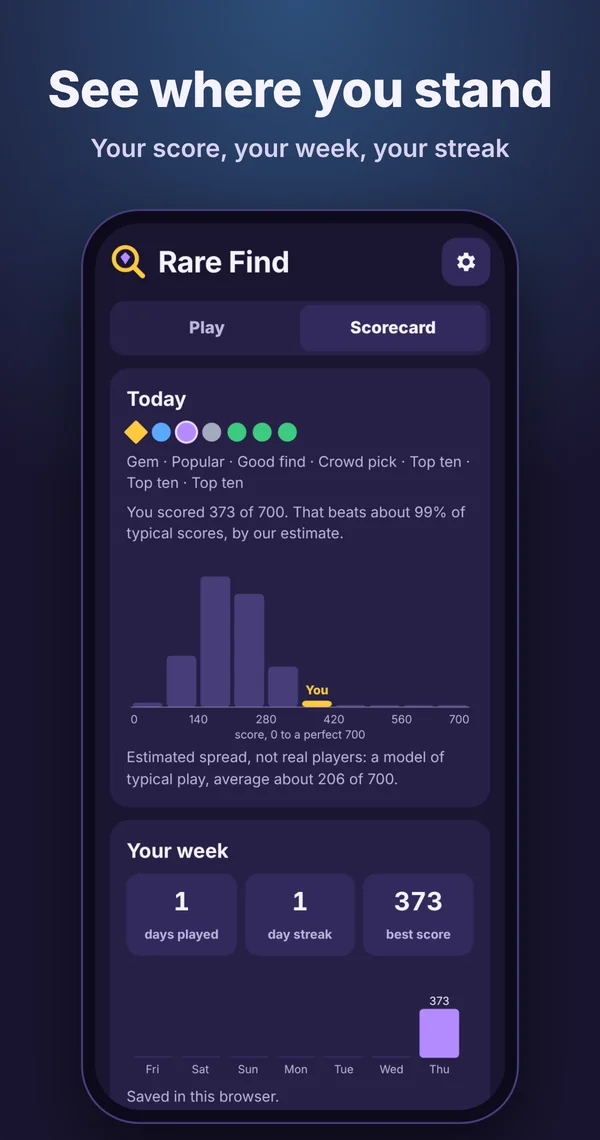
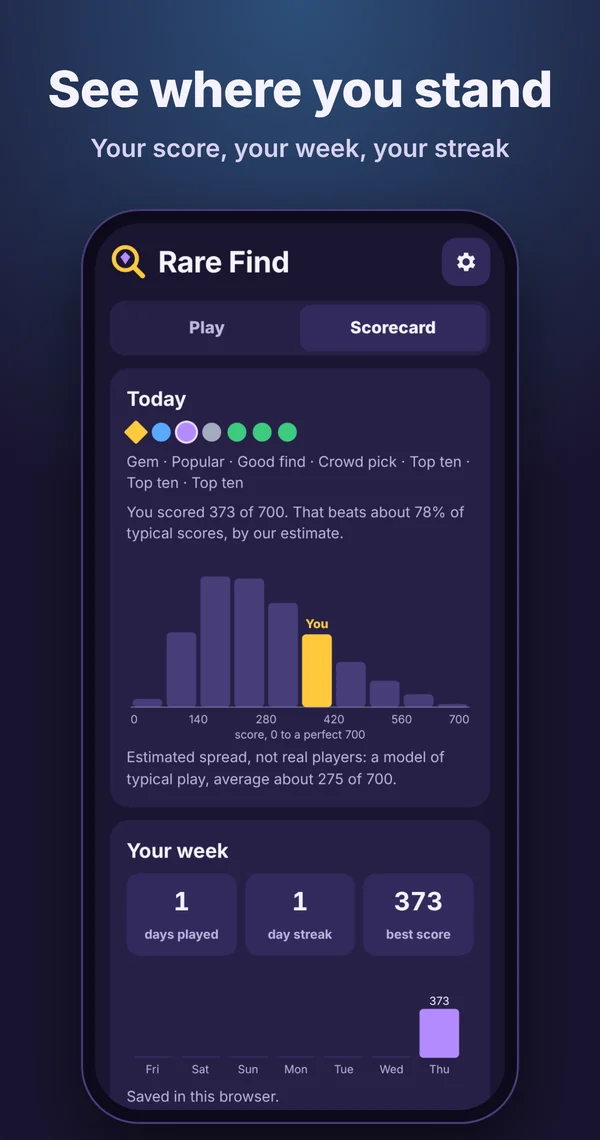
Rare Find: estimated score spread fitted to 275 average, 1% at 600+
The estimated chart mixed one kind of player, averaging about 206 of 700. It
now mixes four (casual, typical, strong, expert), fitted to the owner's
estimate: a 7-prompt game averages 275 of 700 and about 1 game in 100 reaches
600. One kind of player alone cannot give both: the spread is too narrow.
Docs, SKILL.md, store images and a new playtest check updated. Playtest 123/123.

Claude-Session: https://claude.ai/code/session_01XfFFBCbi7PWwpre9jxYUHh

diff --git a/projects/rare-find/_build/game.src.html b/projects/rare-find/_build/game.src.html
@@ -645,10 +645,18 @@ function dealt(k){
 }
 
 /* ---------- the estimated spread of scores ---------- */
-// A model of a typical player, not real data: per prompt, how often they land each result.
-const MODEL=[[25,.18],[rankPts(2),.08],[rankPts(3),.07],...[4,5,6,7,8,9,10].map(r=>[rankPts(r),.03]),[70,.14],[100,.02],[0,.30]];
+// A model of typical play, not real data. Players differ, so it mixes four kinds of player, each with
+// how often they land each result per prompt: miss, crowd pick, popular (2nd or 3rd), the rest of the
+// top ten, a Good find (60 to 90) and a Gem. Fitted (owner's estimate, 18 November 2026) so a 7-prompt
+// game averages about 275 of 700 and about 1 game in 100 reaches 600.
+const PLAYERS=[[.37,[.35,.30,.12,.13,.08,.02]],[.40,[.19,.22,.10,.20,.23,.06]],[.17,[.07,.12,.08,.20,.38,.15]],[.06,[.02,.03,.04,.11,.42,.38]]];
+function perPrompt([miss,crowd,pop,solid,good,gem]){ return [[0,miss],[25,crowd],[rankPts(2),pop/2],[rankPts(3),pop/2],...[4,5,6,7,8,9,10].map(r=>[rankPts(r),solid/7]),...[60,70,80,90].map(v=>[v,good/4]),[100,gem]]; }
 const DISTS={};
-function dist(n=ROUNDS){ if(DISTS[n]) return DISTS[n]; let d=new Map([[0,1]]); for(let r=0;r<n;r++){ const x=new Map(); d.forEach((p,s)=>MODEL.forEach(([v,q])=>x.set(s+v,(x.get(s+v)||0)+p*q))); d=x; } return DISTS[n]=d; }
+function dist(n=ROUNDS){ if(DISTS[n]) return DISTS[n]; const all=new Map();
+  PLAYERS.forEach(([w,ps])=>{ const M=perPrompt(ps); let d=new Map([[0,1]]);
+    for(let r=0;r<n;r++){ const x=new Map(); d.forEach((p,s)=>M.forEach(([v,q])=>x.set(s+v,(x.get(s+v)||0)+p*q))); d=x; }
+    d.forEach((p,s)=>all.set(s,(all.get(s)||0)+w*p)); });
+  return DISTS[n]=all; }
 function meanOf(n=ROUNDS){ return Math.round([...dist(n)].reduce((a,[s,p])=>a+s*p,0)); }
 const DIST=dist(ROUNDS), MEAN=meanOf(ROUNDS);
 function beatPct(score,n=ROUNDS){ let below=0,eq=0; dist(n).forEach((p,s)=>{ if(s<score) below+=p; else if(s===score) eq+=p; }); return Math.max(1,Math.min(99,Math.round(100*(below+eq/2)))); } // an estimate never claims 0% or 100%

diff --git a/projects/rare-find/base/game.html b/projects/rare-find/base/game.html
@@ -645,10 +645,18 @@ function dealt(k){
 }
 
 /* ---------- the estimated spread of scores ---------- */
-// A model of a typical player, not real data: per prompt, how often they land each result.
-const MODEL=[[25,.18],[rankPts(2),.08],[rankPts(3),.07],...[4,5,6,7,8,9,10].map(r=>[rankPts(r),.03]),[70,.14],[100,.02],[0,.30]];
+// A model of typical play, not real data. Players differ, so it mixes four kinds of player, each with
+// how often they land each result per prompt: miss, crowd pick, popular (2nd or 3rd), the rest of the
+// top ten, a Good find (60 to 90) and a Gem. Fitted (owner's estimate, 18 November 2026) so a 7-prompt
+// game averages about 275 of 700 and about 1 game in 100 reaches 600.
+const PLAYERS=[[.37,[.35,.30,.12,.13,.08,.02]],[.40,[.19,.22,.10,.20,.23,.06]],[.17,[.07,.12,.08,.20,.38,.15]],[.06,[.02,.03,.04,.11,.42,.38]]];
+function perPrompt([miss,crowd,pop,solid,good,gem]){ return [[0,miss],[25,crowd],[rankPts(2),pop/2],[rankPts(3),pop/2],...[4,5,6,7,8,9,10].map(r=>[rankPts(r),solid/7]),...[60,70,80,90].map(v=>[v,good/4]),[100,gem]]; }
 const DISTS={};
-function dist(n=ROUNDS){ if(DISTS[n]) return DISTS[n]; let d=new Map([[0,1]]); for(let r=0;r<n;r++){ const x=new Map(); d.forEach((p,s)=>MODEL.forEach(([v,q])=>x.set(s+v,(x.get(s+v)||0)+p*q))); d=x; } return DISTS[n]=d; }
+function dist(n=ROUNDS){ if(DISTS[n]) return DISTS[n]; const all=new Map();
+  PLAYERS.forEach(([w,ps])=>{ const M=perPrompt(ps); let d=new Map([[0,1]]);
+    for(let r=0;r<n;r++){ const x=new Map(); d.forEach((p,s)=>M.forEach(([v,q])=>x.set(s+v,(x.get(s+v)||0)+p*q))); d=x; }
+    d.forEach((p,s)=>all.set(s,(all.get(s)||0)+w*p)); });
+  return DISTS[n]=all; }
 function meanOf(n=ROUNDS){ return Math.round([...dist(n)].reduce((a,[s,p])=>a+s*p,0)); }
 const DIST=dist(ROUNDS), MEAN=meanOf(ROUNDS);
 function beatPct(score,n=ROUNDS){ let below=0,eq=0; dist(n).forEach((p,s)=>{ if(s<score) below+=p; else if(s===score) eq+=p; }); return Math.max(1,Math.min(99,Math.round(100*(below+eq/2)))); } // an estimate never claims 0% or 100%

diff --git a/projects/rare-find/_build/playtest.py b/projects/rare-find/_build/playtest.py
@@ -214,6 +214,8 @@ with sync_playwright() as pw:
     pg.wait_for_timeout(800)
     st = pg.evaluate("window.__rf.state()")
     check("end: the total matches every answer's points", st["screen"] == "end" and pg.inner_text("#final").strip() == str(total), (pg.inner_text("#final"), total))
+    model = pg.evaluate("[window.__rf.meanOf(7), 100-window.__rf.beatPct(600,7)]")
+    check("the estimated spread: a 7-prompt game averages about 275 of 700, and about 1 in 100 reach 600", 270 <= model[0] <= 280 and model[1] == 1, model)
     check("end: a chart of the estimated spread, with your place", pg.evaluate("!!document.querySelector('#end-chart svg')") and "beat about" in pg.inner_text("#end-chart") and "You" in pg.inner_text("#end-chart"), pg.inner_text("#end-chart"))
     check("end: today's score is saved", st["days"].get("2026-11-17", {}).get("score") == total, st["days"])
     check("'Back to start' shows on the end screen", pg.is_visible("#b-end-back"))

diff --git a/projects/rare-find/_build/NORTH-STAR.md b/projects/rare-find/_build/NORTH-STAR.md
@@ -24,7 +24,7 @@ Then a comment from an AI host with a sense of humour, the top ten, and your pla
 | Gems shown on the reveal | Gems hidden; only their count shows | "Remove the rare finds from the list, in case people want to play again" |
 | New category, fresh last prompt | Removed | "I do not understand the last round or topic section" |
 | Settings card on home | A gear icon with an accordion, closed | "Move settings as an icon with accordion, default closed" |
-| A final score | A Scorecard tab and a chart of your place, 0 to 500 | "An end of day score that compares to others ... a bar chart with an estimated distribution" |
+| A final score | A Scorecard tab and a chart of your place, 0 to 700 | "An end of day score that compares to others ... a bar chart with an estimated distribution" |
 | Co-workers' trash talk | Four AI commentator personas | "Unique personas and some humour in the comments" |
 | Claude judges unlisted answers on its own | "Check with Claude", then "Check again" | "Have 'We allow it' be the LLM check ... allow a check again" |
 
@@ -63,9 +63,13 @@ Nothing is ever approved without the AI's yes; "We allow it" was removed on 18 N
 owner's request. The game never waits for the AI; a late verdict still counts. While it checks, the
 other hosts fill the wait with a line each.
 
-**The estimated chart.** Until 5 real players have scores for the day, the chart shows a model of
-typical play (per prompt: about 30% miss, 33% top three, 21% ranks 4 to 10, 14% beyond the top ten,
-2% Gems). That gives an average of about 154. It is labelled as an estimate everywhere.
+**The estimated chart.** The chart shows a model of typical play, labelled as an estimate
+everywhere. Players differ, so it mixes four kinds of player (casual 37%, typical 40%, strong 17%,
+expert 6%), each with its own chance per prompt of a miss, the crowd pick, a popular answer, the rest
+of the top ten, a Good find and a Gem. It was fitted to the owner's estimate (18 November 2026): a
+7-prompt game averages about 275 of 700, and about 1 game in 100 reaches 600. The middle game is
+about 257; one in ten scores 456 or more. With one kind of player only, no setting gives both
+numbers: the spread comes out too narrow.
 
 ## Challenge codes: the simple way to join
 
@@ -87,7 +91,7 @@ friend has not played yet, it counts as their daily game.
 ## Prompts per game
 
 7 (default), 10, or party mode: all 25 prompts, grouped by topic, with "Topic 2 of 8" on each
-prompt. Today's game is always 5, so daily scores compare. The chart and the perfect score scale with
+prompt. Today's game is always 7, so daily scores compare. The chart and the perfect score scale with
 the count (100 per prompt).
 
 ## The commentators

diff --git a/projects/rare-find/quality-results/README.md b/projects/rare-find/quality-results/README.md
@@ -6,7 +6,7 @@
 
 - **The automated playtest**, [`../_build/playtest.py`](../_build/playtest.py). It plays the built
   page in Chromium at 390 px (phone) and 1280 px, keyboard only, with reduced motion, with no Claude,
-  and with a mock of Claude's answer check (`sample`). Last run, 18 November 2026, version 4.4: **122 of 122 checks
+  and with a mock of Claude's answer check (`sample`). Last run, 18 November 2026, version 4.4: **123 of 123 checks
   passed**. They cover how an answer lands (on screen within 100 ms, ordinary effects 150 to 250
   ms, the Gem reveal inside 600 ms, Next usable during effects, a late verdict that changes only its
   own round), 60 spelling cases, the per-category points, hidden Gems, the daily calendar
@@ -103,7 +103,9 @@ again, Next question) that celebrates in proportion to the points; the AI's reas
 repeat in it, so the host's bubble is the only comment. The daily game is 7 prompts, today
 included. Then, at the owner's word that celebrations are the game play, they were made far bigger,
 varied (eight styles drawn at random by level) and longer: 1.5 s at 25 points, 2.5 s at 80, 3 s over
-80 and for a Gem, measured in the playtest. 122 of 122 checks pass, with Claude mocked. **Not yet
+80 and for a Gem, measured in the playtest. The estimated chart now mixes four kinds of player,
+fitted to the owner's estimate: an average of about 275 of 700, about 1% of games at 600 or more.
+123 of 123 checks pass, with Claude mocked. **Not yet
 tried by a person.**
 
 ## Who has and has not tried it

diff --git a/projects/rare-find/README.md b/projects/rare-find/README.md
@@ -114,7 +114,7 @@ like an instruction is never sent to it.
 <details>
 <summary><b>Is the chart real?</b></summary>
 
-No. It is an estimate of typical play, averaging about 206 of 700, and it says so on screen. There
+No. It is an estimate of typical play, averaging about 275 of 700, with about 1 game in 100 reaching 600, and it says so on screen. There
 is no shared scoreboard. Friends compare by challenge link.
 </details>
 
@@ -178,7 +178,7 @@ one in settings, or turn them off.
 ## Status
 
 **In user testing.** As of 18 November 2026, users are playing it; their results are not in yet.
-122 of 122 automated checks pass at phone and desktop
+123 of 123 automated checks pass at phone and desktop
 width, with Claude replaced by a mock. In two blind reviews, fresh AI reviewers scored version 4
 91 and 86, against 84 and 82 for version 3, and both would replay version 4. The owner has played
 version 4 in the real Claude app, up to the Check again fix; nobody has played version 4.4 there yet. The chat version passed two test games, played by a

diff --git a/projects/rare-find/base/SKILL.md b/projects/rare-find/base/SKILL.md
@@ -98,7 +98,7 @@ example: Unit 7: "Verifying. Progress 41%."
 
 After the last prompt:
 1. The total out of N × 100 (700 for 7 prompts), one square per prompt, and a one-line verdict.
-2. The typical score is about 206 of 700. Say it is an estimate,
+2. The typical score is about 275 of 700, and about 1 game in 100 reaches 600. Say it is an estimate,
    not real players.
 3. **A challenge link** a friend can open in any browser, to play the same prompts:
    `https://bar181.github.io/practical-ai/rare-find/#c-KEY-SCORE-TIERS-NAME`
